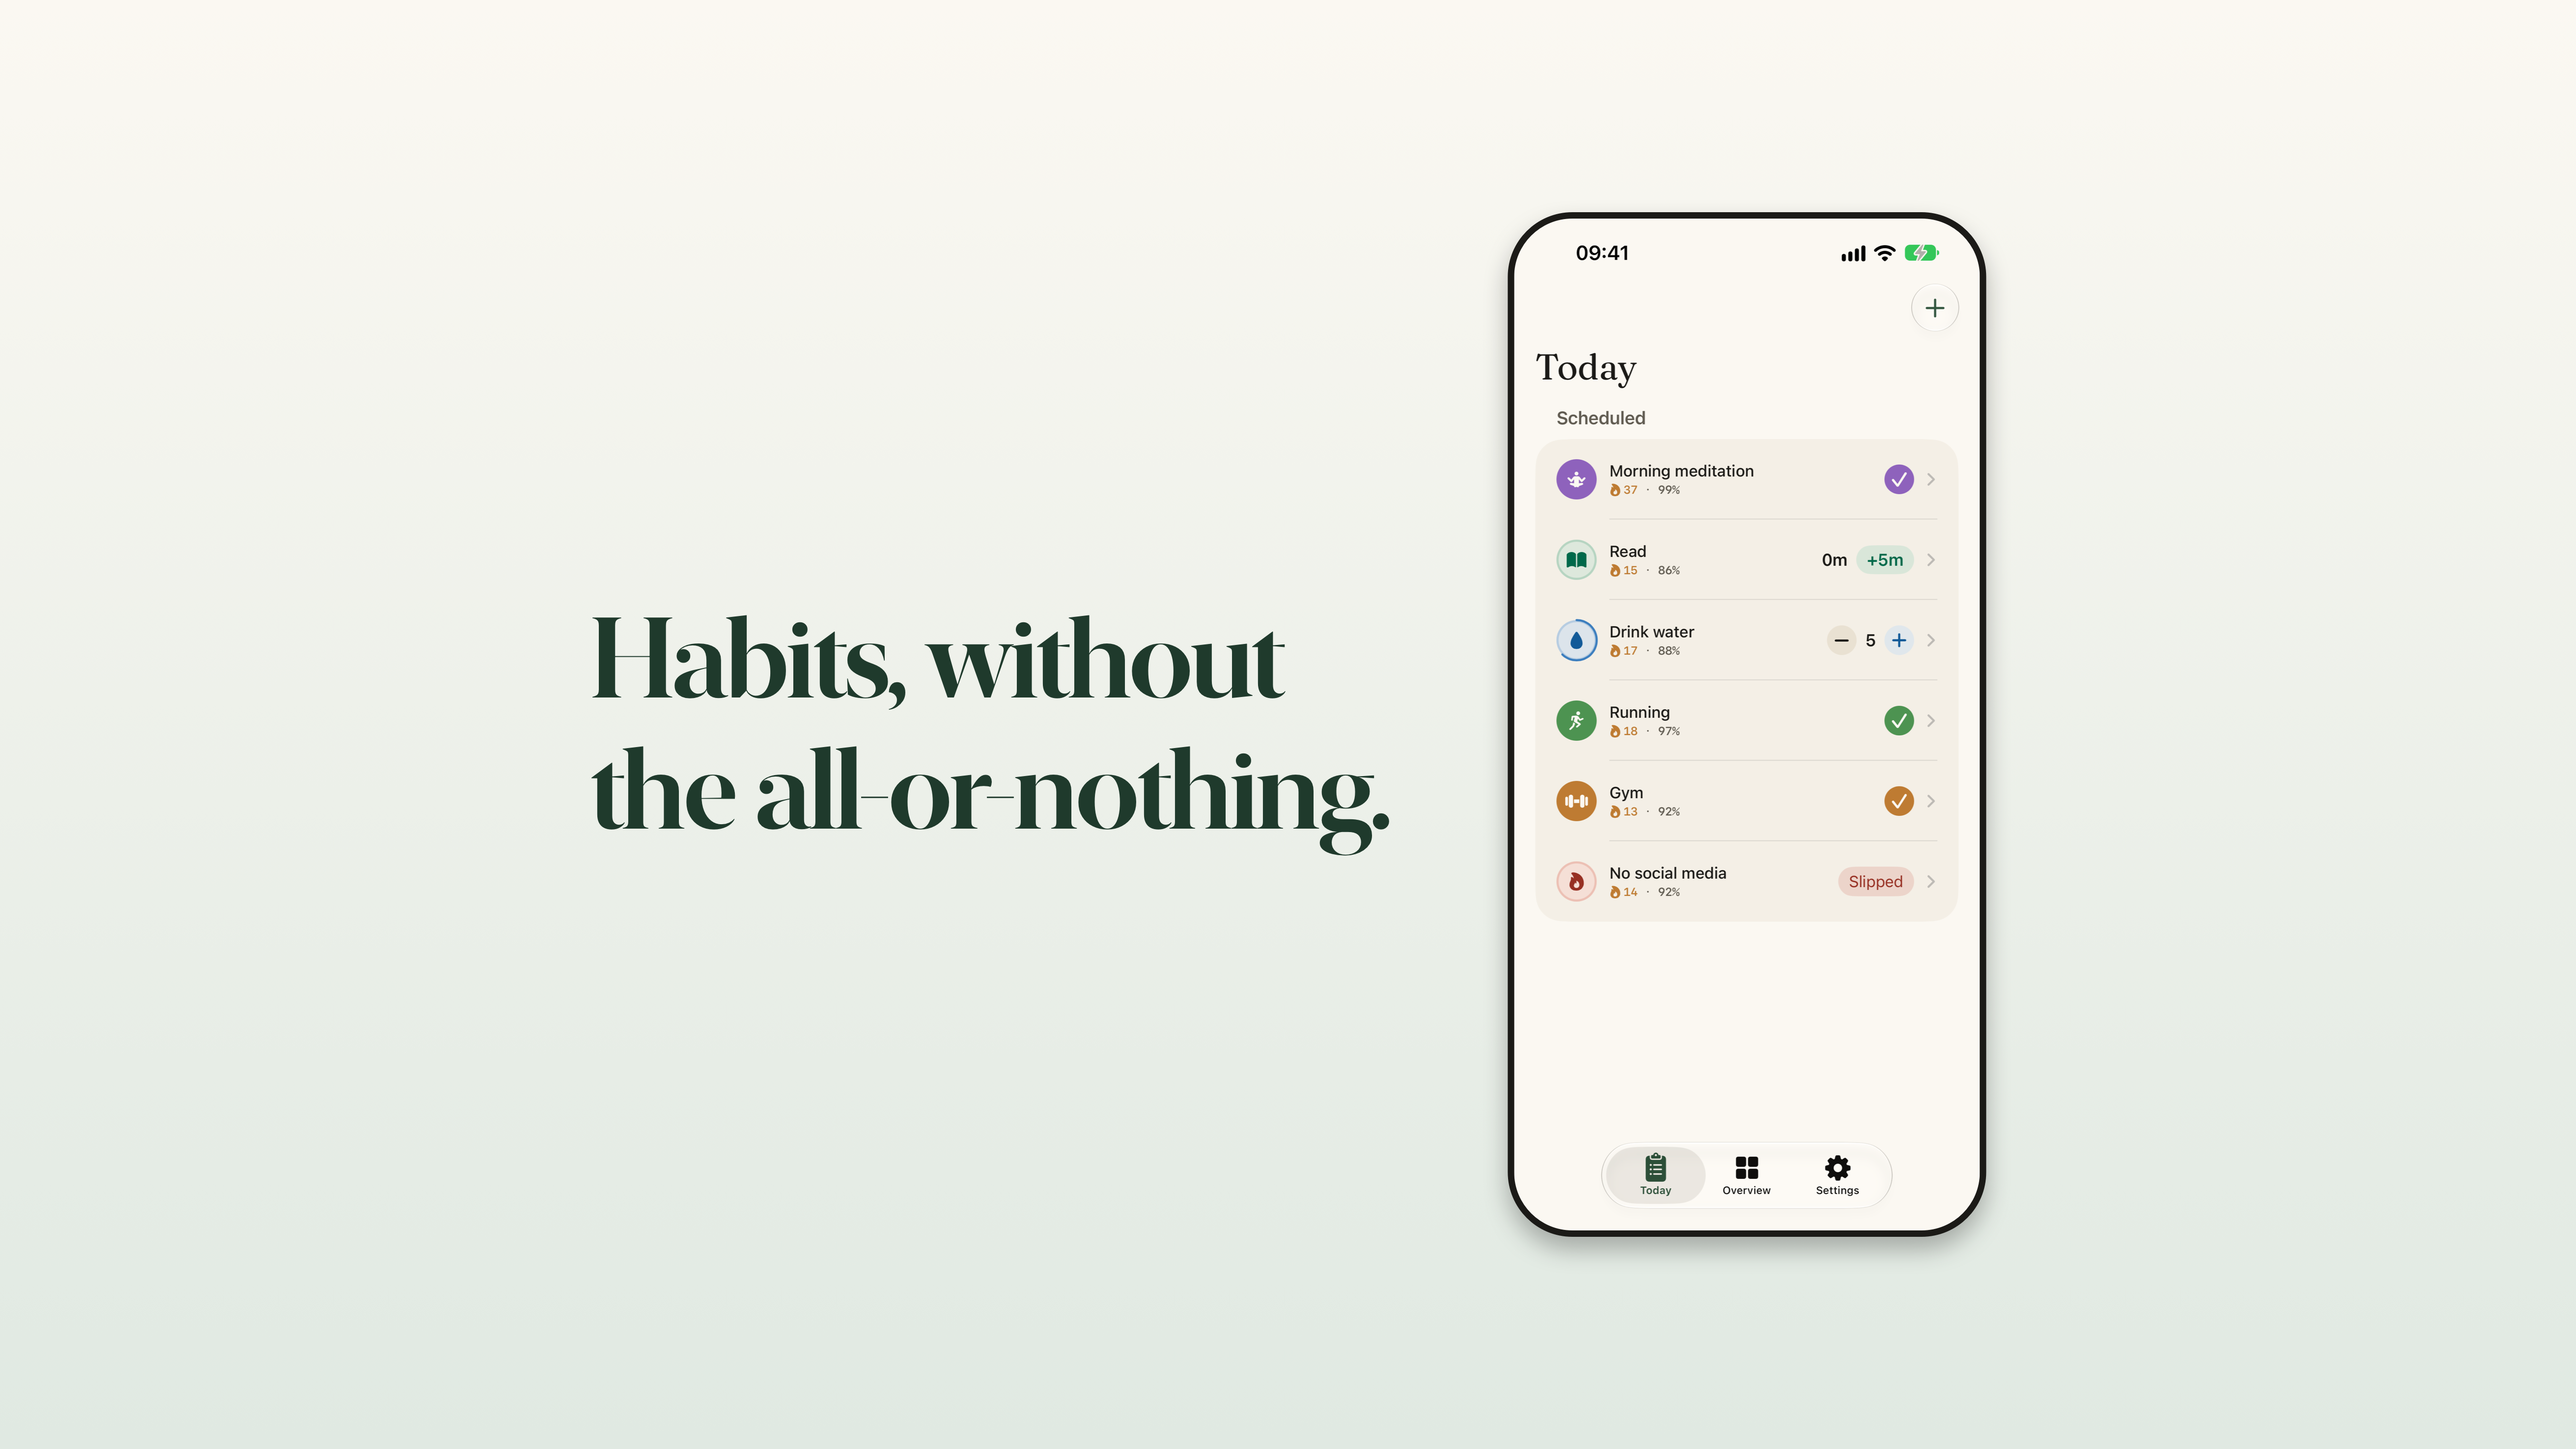
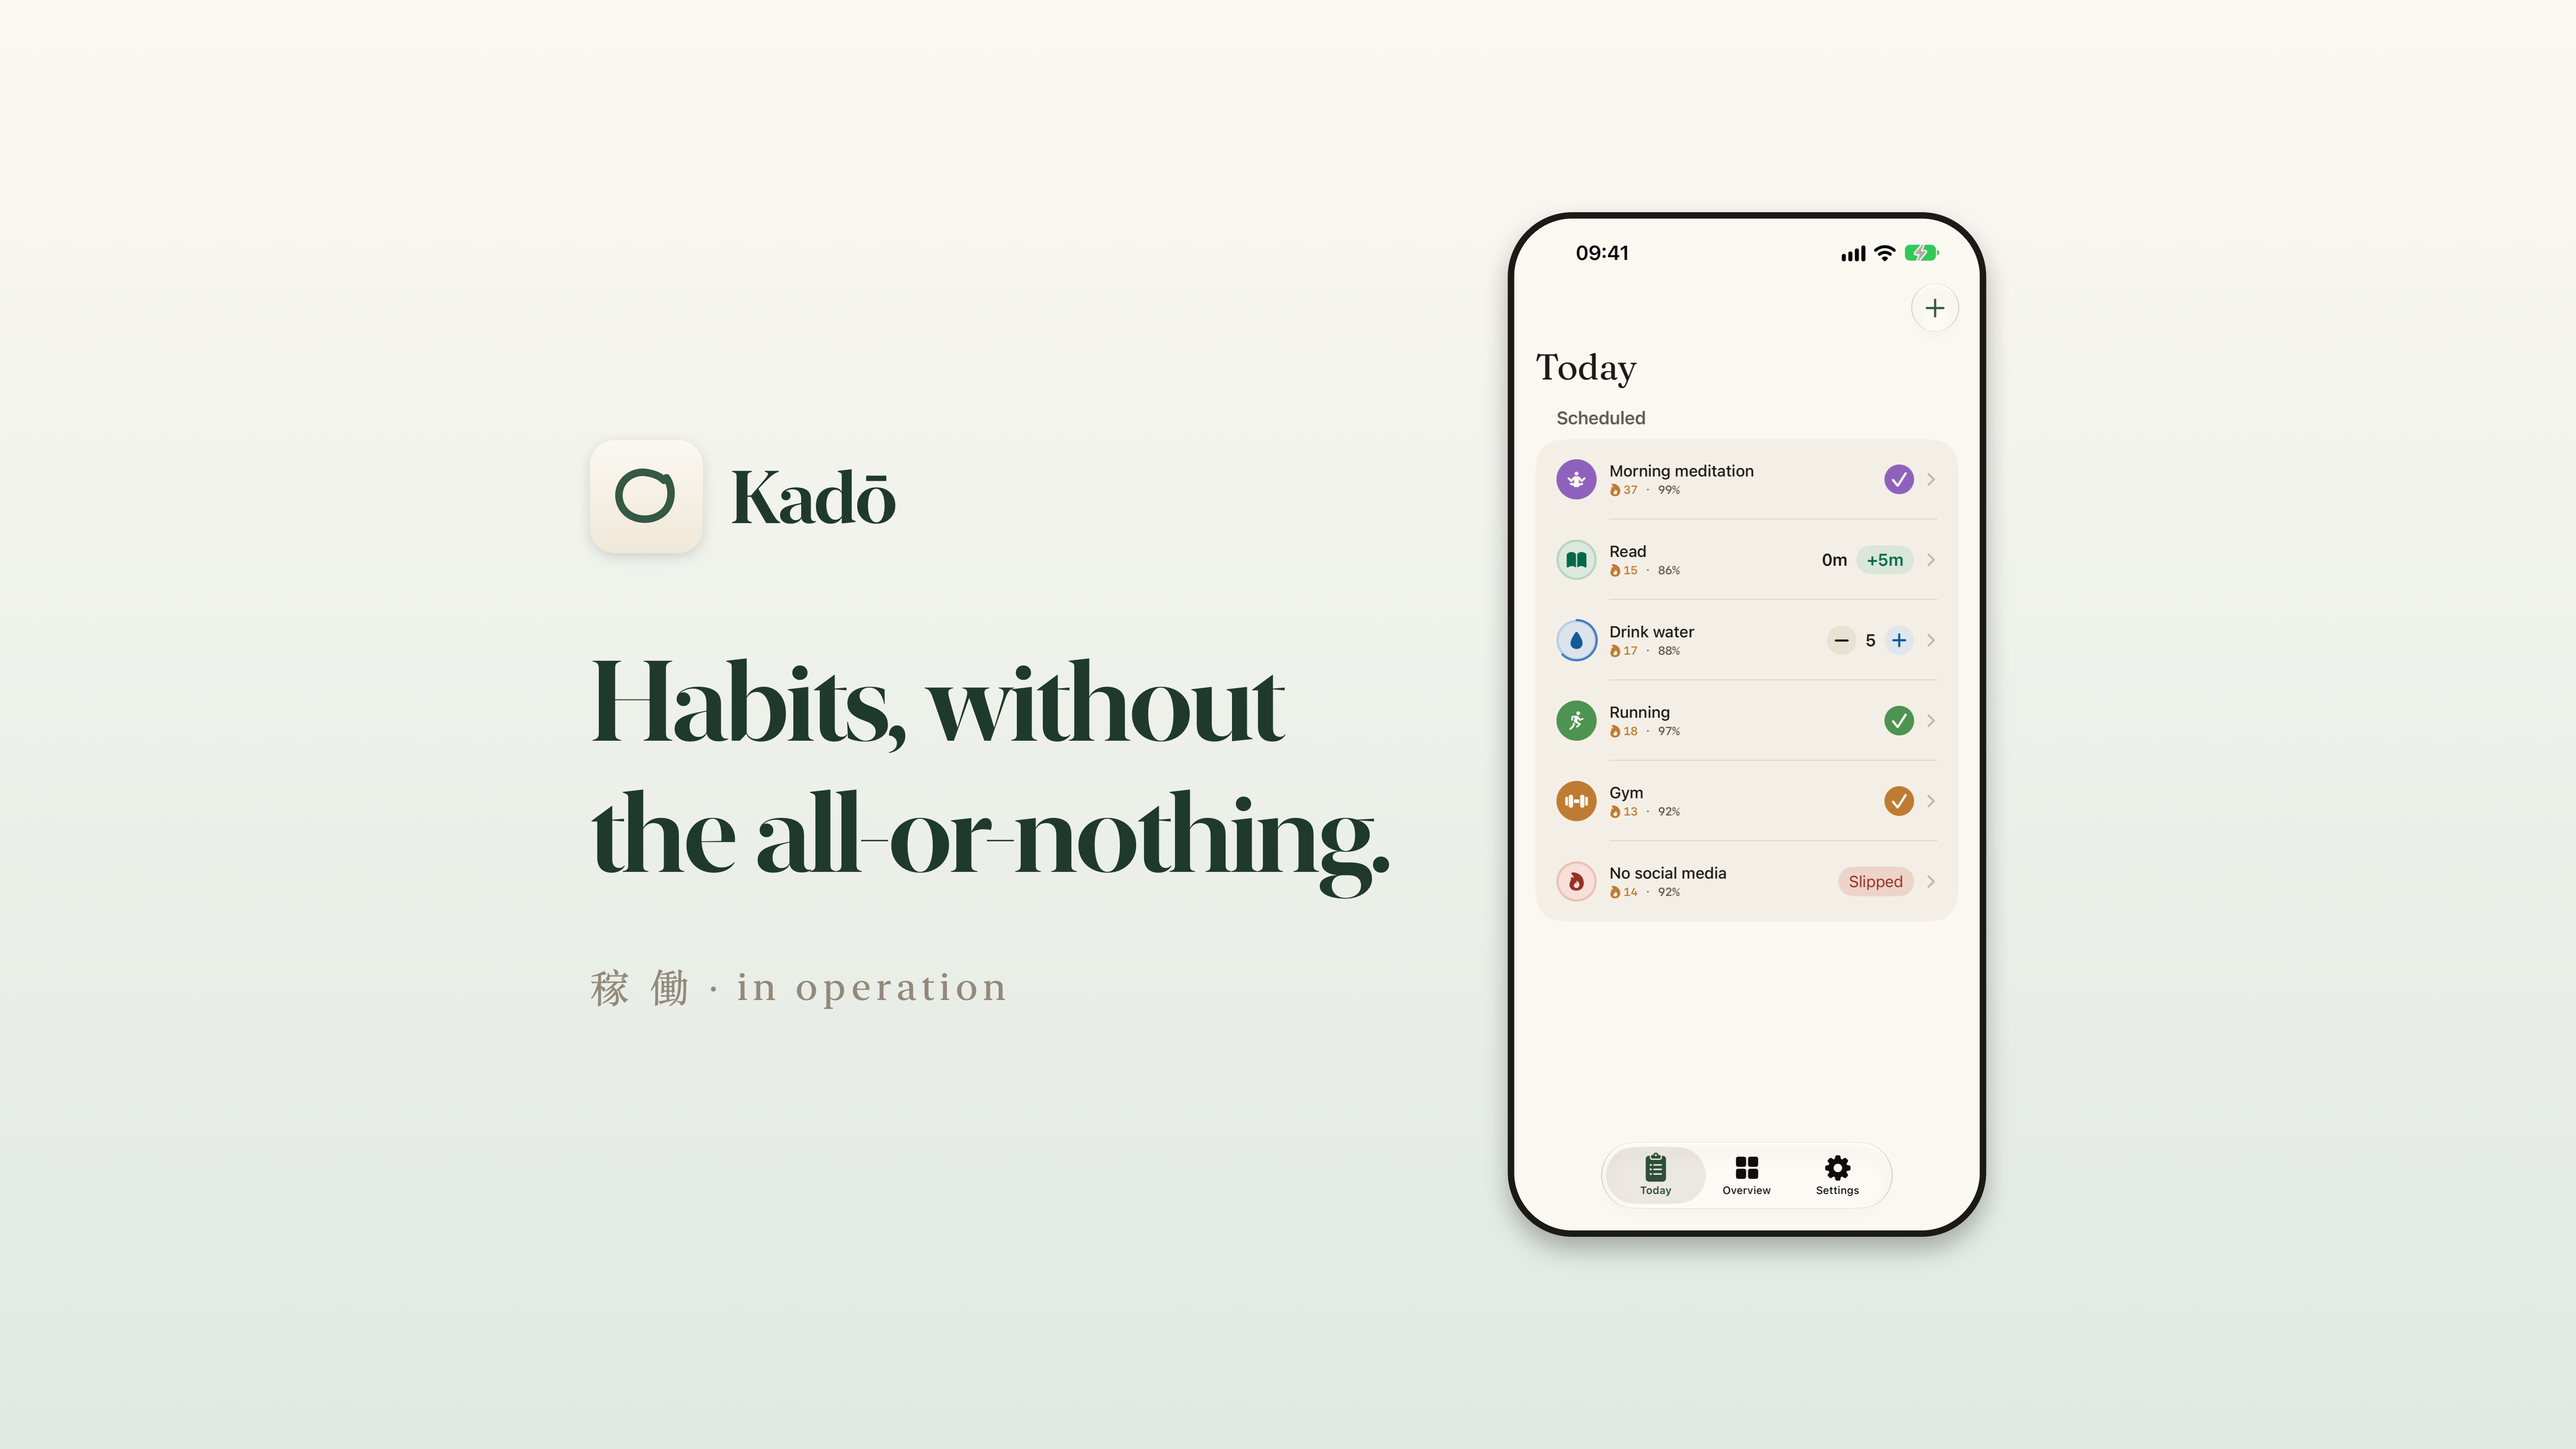
feat(listing): put the app's name and the Settings wordmark on the creative
The headline beside the phone read as empty. The text column now opens with
the app icon and "Kadō" in Fraunces, so a search banner says whose it is
first, and closes on the verbatim "稼 働 · in operation" wordmark from the
foot of Settings, in the same tracked serif and ink-300.

Refs #131

Changed region(s): [[0.2176, 0.4366, 0.5595, 0.6237], [0.2487, 0.3119, 0.3419, 0.3742], [0.2176, 0.6549, 0.2797, 0.6861]]

diff --git a/Scripts/frame-screenshots.swift b/Scripts/frame-screenshots.swift
@@ -468,6 +468,38 @@ enum Creative {
     static let headlineSize: CGFloat = 230
     /// Between the end of the headline's longest line and the phone.
     static let gap: CGFloat = 240
+
+    /// The lockup over the headline: the icon and the name, so a banner seen in search results
+    /// says whose it is before it says anything else.
+    static let appName = "Kadō"
+    static let nameSize: CGFloat = 150
+    static let iconSize: CGFloat = 230
+    static let iconGap: CGFloat = 56
+    static let lockupGap: CGFloat = 170
+    /// The app's default icon, the one a first-time visitor sees beside the listing.
+    static let icon = NSImage(
+        contentsOfFile: "Kado/Resources/Assets.xcassets/AppIcon.appiconset/AppIcon.png"
+    )
+
+    /// The sign-off at the foot of Settings, under the headline. Verbatim, as `SettingsView`
+    /// draws it — 稼働 is brand art, not a phrase, and the app doesn't translate it either.
+    static let wordmark = "稼 働 · in operation"
+    static let wordmarkSize: CGFloat = 80
+    static let wordmarkGap: CGFloat = 130
+}
+
+/// `kadoInk300`, light — `kadoForegroundTertiary`, the colour Settings sets the wordmark in.
+let ink300 = rgb(0.576, 0.537, 0.482)
+
+/// The Settings wordmark: the system serif, regular, tracked open the way the app tracks it
+/// (2pt at 13pt). The 稼働 glyphs come from the system's fallback cascade, as they do on iOS.
+func wordmark(_ text: String, size: CGFloat) -> NSAttributedString {
+    let descriptor = NSFont.systemFont(ofSize: size).fontDescriptor.withDesign(.serif)
+    let font = descriptor.flatMap { NSFont(descriptor: $0, size: size) } ?? NSFont.systemFont(ofSize: size)
+    return NSAttributedString(
+        string: text,
+        attributes: [.font: font, .foregroundColor: ink300, .kern: size * 2 / 13]
+    )
 }
 
 /// The universal creative: a left-aligned headline and the Today screen in a phone, centred as
@@ -493,20 +525,51 @@ func creative(capture: NSImage, caption: String, palette: Palette) -> NSBitmapIm
             within: safe.width - Creative.gap - phoneWidth
         )
         let texts = lines.map { attributed($0, size: headlineSize, color: palette.headline) }
-        let headlineWidth = texts.map { $0.size().width }.max() ?? 0
+        let name = attributed(Creative.appName, size: Creative.nameSize, color: palette.headline)
+        let mark = wordmark(Creative.wordmark, size: Creative.wordmarkSize)
+        let iconSize = Creative.iconSize
+        let lockupWidth = iconSize + Creative.iconGap + name.size().width
+        let columnWidth = max(
+            texts.map { $0.size().width }.max() ?? 0, lockupWidth, mark.size().width
+        )
+
+        // The text column, three tiers stacked top-down and centred as a block against the
+        // phone: who it is, what it believes, and the app's own sign-off from the foot of
+        // Settings.
+        let lineHeight = headlineSize * 1.16
+        let headlineHeight = lineHeight * CGFloat(lines.count)
+        let markHeight = mark.size().height
+        let columnHeight = iconSize + Creative.lockupGap + headlineHeight
+            + Creative.wordmarkGap + markHeight
 
         // One group, centred: the crops are centred, so a group that is centred survives both
         // of them by the same margin on either side.
-        let left = ((canvas.width - headlineWidth - Creative.gap - phoneWidth) / 2).rounded()
+        let left = ((canvas.width - columnWidth - Creative.gap - phoneWidth) / 2).rounded()
+        var top = ((canvas.height + columnHeight) / 2).rounded()
 
-        let lineHeight = headlineSize * 1.16
-        let headlineTop = (canvas.height + lineHeight * CGFloat(lines.count)) / 2
-        for (index, text) in texts.enumerated() {
-            text.draw(at: NSPoint(x: left, y: headlineTop - lineHeight * CGFloat(index + 1)))
+        if let icon = Creative.icon {
+            let rect = NSRect(x: left, y: top - iconSize, width: iconSize, height: iconSize)
+            // The icon's own corner, as the Home Screen masks it. The PNG is square; iOS
+            // supplies the shape.
+            let radius = iconSize * 0.2237
+            slab(rect, radius: radius, color: palette.top, shadowOffset: 8, shadowBlur: 28, shadowAlpha: 0.14)
+            draw(icon, in: rect, radius: radius)
         }
+        // The name's cap height centred on the icon, not its line box, which carries the
+        // descender space a word with no descenders doesn't use.
+        let font = headlineFont(Creative.nameSize)
+        let nameBaseline = top - iconSize / 2 - font.capHeight / 2
+        name.draw(at: NSPoint(x: left + iconSize + Creative.iconGap, y: nameBaseline + font.descender))
+        top -= iconSize + Creative.lockupGap
+
+        for (index, text) in texts.enumerated() {
+            text.draw(at: NSPoint(x: left, y: top - lineHeight * CGFloat(index + 1)))
+        }
+        top -= headlineHeight + Creative.wordmarkGap
+        mark.draw(at: NSPoint(x: left, y: top - markHeight))
 
         let screen = NSRect(
-            x: left + headlineWidth + Creative.gap + bezel,
+            x: left + columnWidth + Creative.gap + bezel,
             y: ((canvas.height - screenHeight) / 2).rounded(),
             width: screenWidth,
             height: screenHeight

diff --git a/docs/app-store/README.md b/docs/app-store/README.md
@@ -84,7 +84,7 @@ The widget views themselves live in `KadoCore` so the app can draw them; the ext
 
 On iOS 27 a listing has two landscape slots — a header across the top of the product page and a creative in search results — and one **universal** 16:9 image fills both. `make frames` draws it per locale into `marketing/<locale>/creative/universal.png`: **5244×2950, PNG, no alpha channel**. App Store Connect refuses any other size, and refuses alpha outright, even an alpha channel that is opaque everywhere, so the frame writes it through a no-alpha bitmap rather than the RGBA one the screenshots use. `make listing-check` checks all three.
 
-It is the same ground and the same Fraunces as the screenshots, laid out sideways: the `creative-universal` headline from `captions.json`, left-aligned, beside that locale's iPhone `01-today` capture in a phone. Nothing in it is new artwork, so a recapture or a reworded headline carries through on the next `make frames`. The layout is `Creative` in `Scripts/frame-screenshots.swift`.
+It is the same ground and the same Fraunces as the screenshots, laid out sideways: a text column beside that locale's iPhone `01-today` capture in a phone. The column has three tiers: the app icon and "Kadō", so a banner in search results says whose it is first; the `creative-universal` headline from `captions.json`; and `稼 働 · in operation`, the wordmark from the foot of Settings, set as `SettingsView` sets it and left untranslated, as the app leaves it. Nothing in it is new artwork, so a recapture, a new default icon or a reworded headline carries through on the next `make frames`. The layout is `Creative` in `Scripts/frame-screenshots.swift`.
 
 **The safe band.** Apple crops the 16:9 to roughly 21:9 for the header and roughly 3:2 for search, and publishes no numbers. The headline and the phone are one group, centred, inside an assumed band of the middle 60% of the width and 75% of the height; only the ground runs outside it. Confirm the real crops in App Store Connect's **Preview** tool (iPhone and iPad, both orientations) after any change to the layout.
 

diff --git a/docs/plans/2026-10/listing-creative/README.md b/docs/plans/2026-10/listing-creative/README.md
@@ -9,4 +9,6 @@ Two compositions for the universal App Store creative (5244×2950, shown here at
 
 Why A: the creative is one idea for a first-time visitor, and the tiles in B said the same thing twice — they repeat the list's own rows at a smaller size — while covering the "Slipped" row, the one that makes *without the all-or-nothing* visible. B also pushes the group's weight to the right of the safe band.
 
-Both crops of A were checked by centring 21:9 (5244×2247) and 3:2 (4425×2950) cuts: headline and phone stay whole in each with margin. Apple's real crops are still to be confirmed in App Store Connect's Preview tool.
+A on its own read as empty, so the shipped version, `final.png`, adds a text column above and below the headline: the app icon with "Kadō" in Fraunces, and the `稼 働 · in operation` wordmark from the foot of Settings.
+
+Both crops of A, and of the final, were checked by centring 21:9 (5244×2247) and 3:2 (4425×2950) cuts: headline and phone stay whole in each with margin. Apple's real crops are still to be confirmed in App Store Connect's Preview tool.
